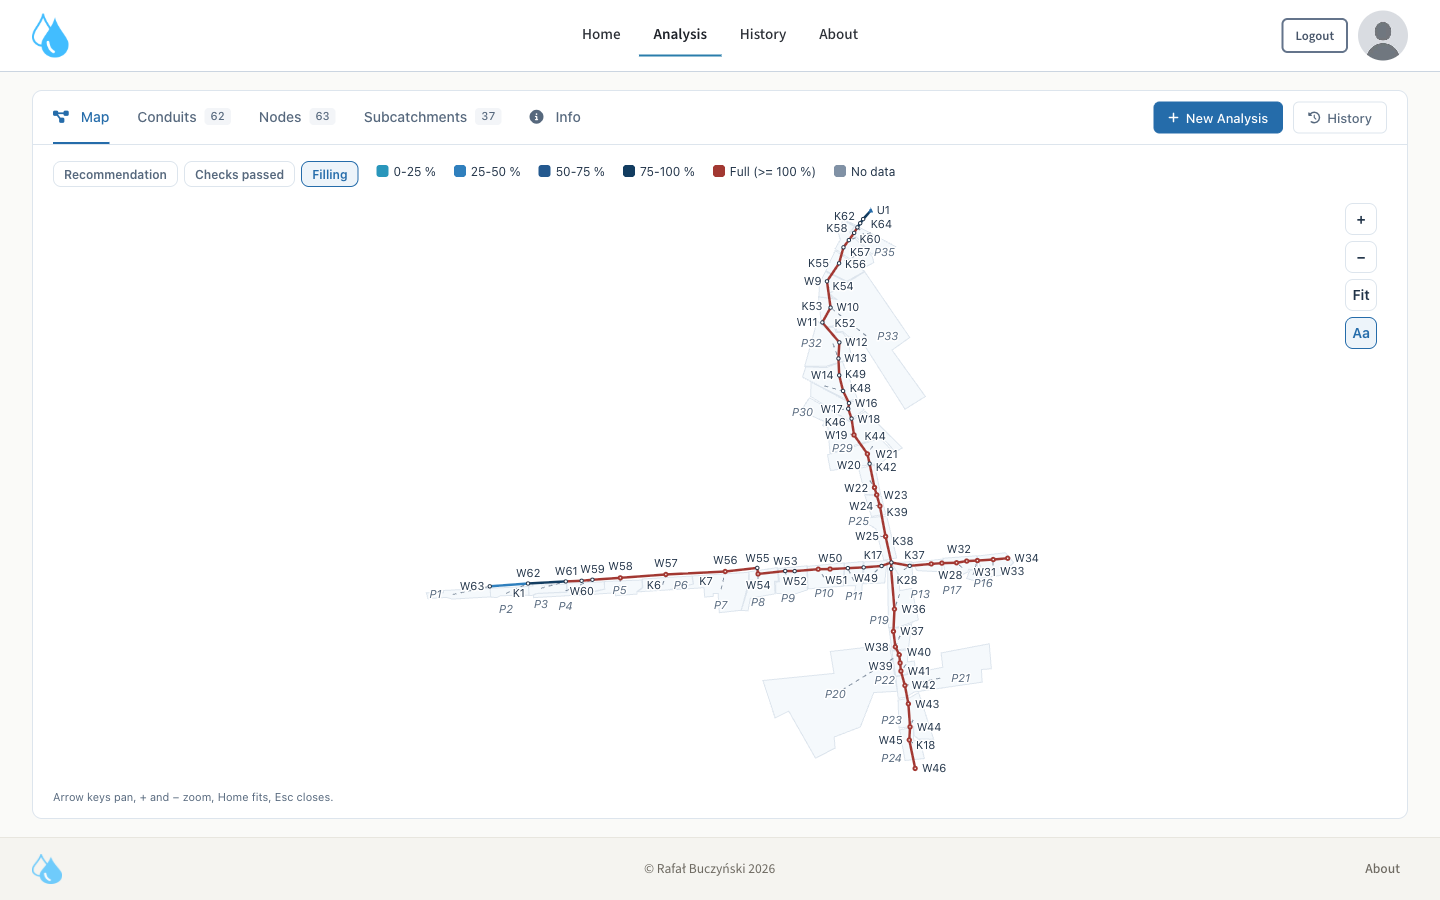
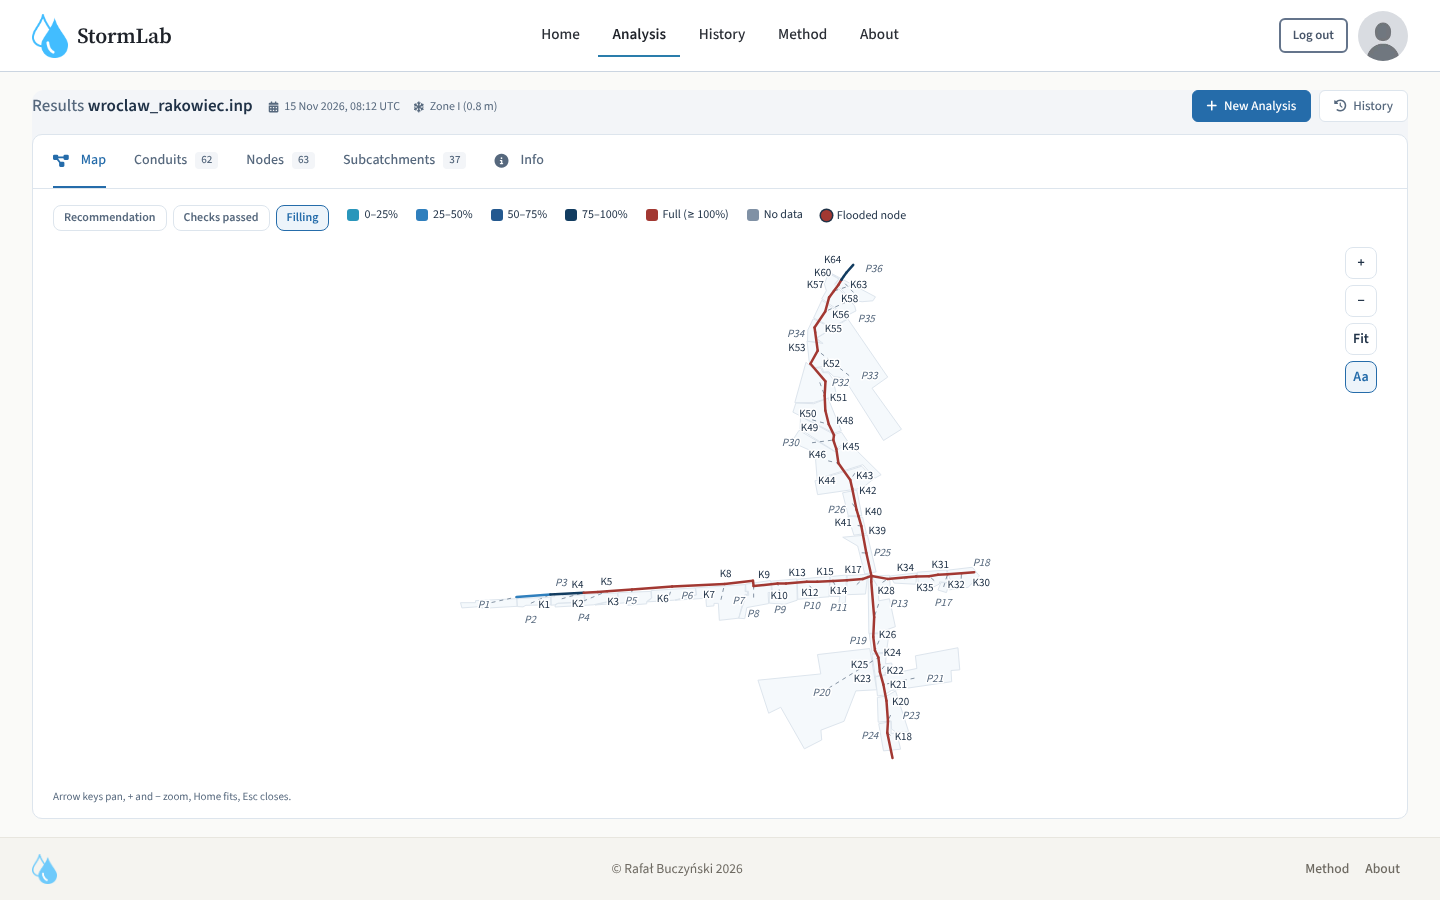
docs: retake the screenshots and name the UI as it reads now
The four images of docs/images still showed the application before the
fix branches: no wordmark, "Logout", the old legend and labels, the
panel's Title Case rows and "max node depth" caption, and the Method
figure without its number.

- network_map_recommendations.png and network_map_filling.png
  (1440x900), conduit_panel.png (conduit K18, full page, 1425 px wide as
  before) and method_receptive_field.png (the figure element at twice
  the pixel density) are taken again from the running application with
  the Rakowiec demo, logged in, with the web fonts loaded.
- README: "Design checks" instead of "Hydraulic verification", the
  action names as the results show them, and the tour names the
  colourings, the tabs and the buttons a reader will see (Sign up,
  Recommendation / Checks passed / Filling, CSV, Open details,
  Upload & Analyse). No fact or number changes; examples/README.md
  already matched.

diff --git a/README.md b/README.md
@@ -12,10 +12,10 @@ to recommend an action for each conduit.
 ## What it does
 
 - **Simulation.** Runs EPA SWMM 5.2 on an uploaded `.inp` model.
-- **Hydraulic verification.** Seven checks per conduit: filling, velocity, slope, depth and cover.
+- **Design checks.** Seven checks per conduit: filling, velocity, slope, depth and cover.
 - **Recommendations.** A graph neural network reads each conduit together with the
-  conduits that drain into it and scores nine actions, from *no change* to
-  *larger diameter* or *retention tank*.
+  conduits that drain into it and scores nine actions, from *No changes* to
+  *Increase diameter* or *Retention tank*.
 - **Catchment categories.** Read from the model's tags, or assigned by a classifier.
 - **Results.** Interactive network map, tables with CSV export and a longitudinal
   profile for every conduit.
@@ -60,7 +60,7 @@ make migrate
 make run
 ```
 
-Open <http://127.0.0.1:8000>, sign up and follow the tour below.
+Open <http://127.0.0.1:8000>, choose **Sign up** and follow the tour below.
 
 On macOS, `make install` also re-signs the SWMM libraries: the published wheel carries
 invalid code signatures and the system refuses to load it otherwise.
@@ -69,14 +69,17 @@ invalid code signatures and the system refuses to load it otherwise.
 
 1. Go to **Analysis**, pick a frost zone and choose **Try with Demo Data**. It loads the
    storm sewer network of the Rakowiec estate in Wrocław (62 conduits).
-2. On the **Map** tab, switch between recommendations, passed checks and filling. Click a
-   conduit, node or subcatchment for its key values.
-3. Browse the conduit, node and subcatchment tables, or export them to CSV.
-4. Open a conduit's details to see its profile, the seven checks and the recommended
-   action with the model's score for every class.
+2. On the **Map** tab, colour the network by **Recommendation**, **Checks passed** or
+   **Filling**. Click a conduit, node or subcatchment for its key values.
+3. Browse the **Conduits**, **Nodes** and **Subcatchments** tabs, or export a table
+   with **CSV**.
+4. Click a conduit's name in the table, or **Open details** on the map, to see its
+   profile, the seven design checks and the recommended action with the model score
+   of every class.
 5. Open **Method** to see, on the same network, which conduits the model reads for the
    one you select.
-6. Upload your own `.inp` file (flow units: CMS). More examples are in [`examples/`](examples/).
+6. Back on **Analysis**, upload your own `.inp` file with **Upload & Analyse** (flow
+   units: CMS). More examples are in [`examples/`](examples/).
 
 | Filling | Conduit panel |
 |---|---|
